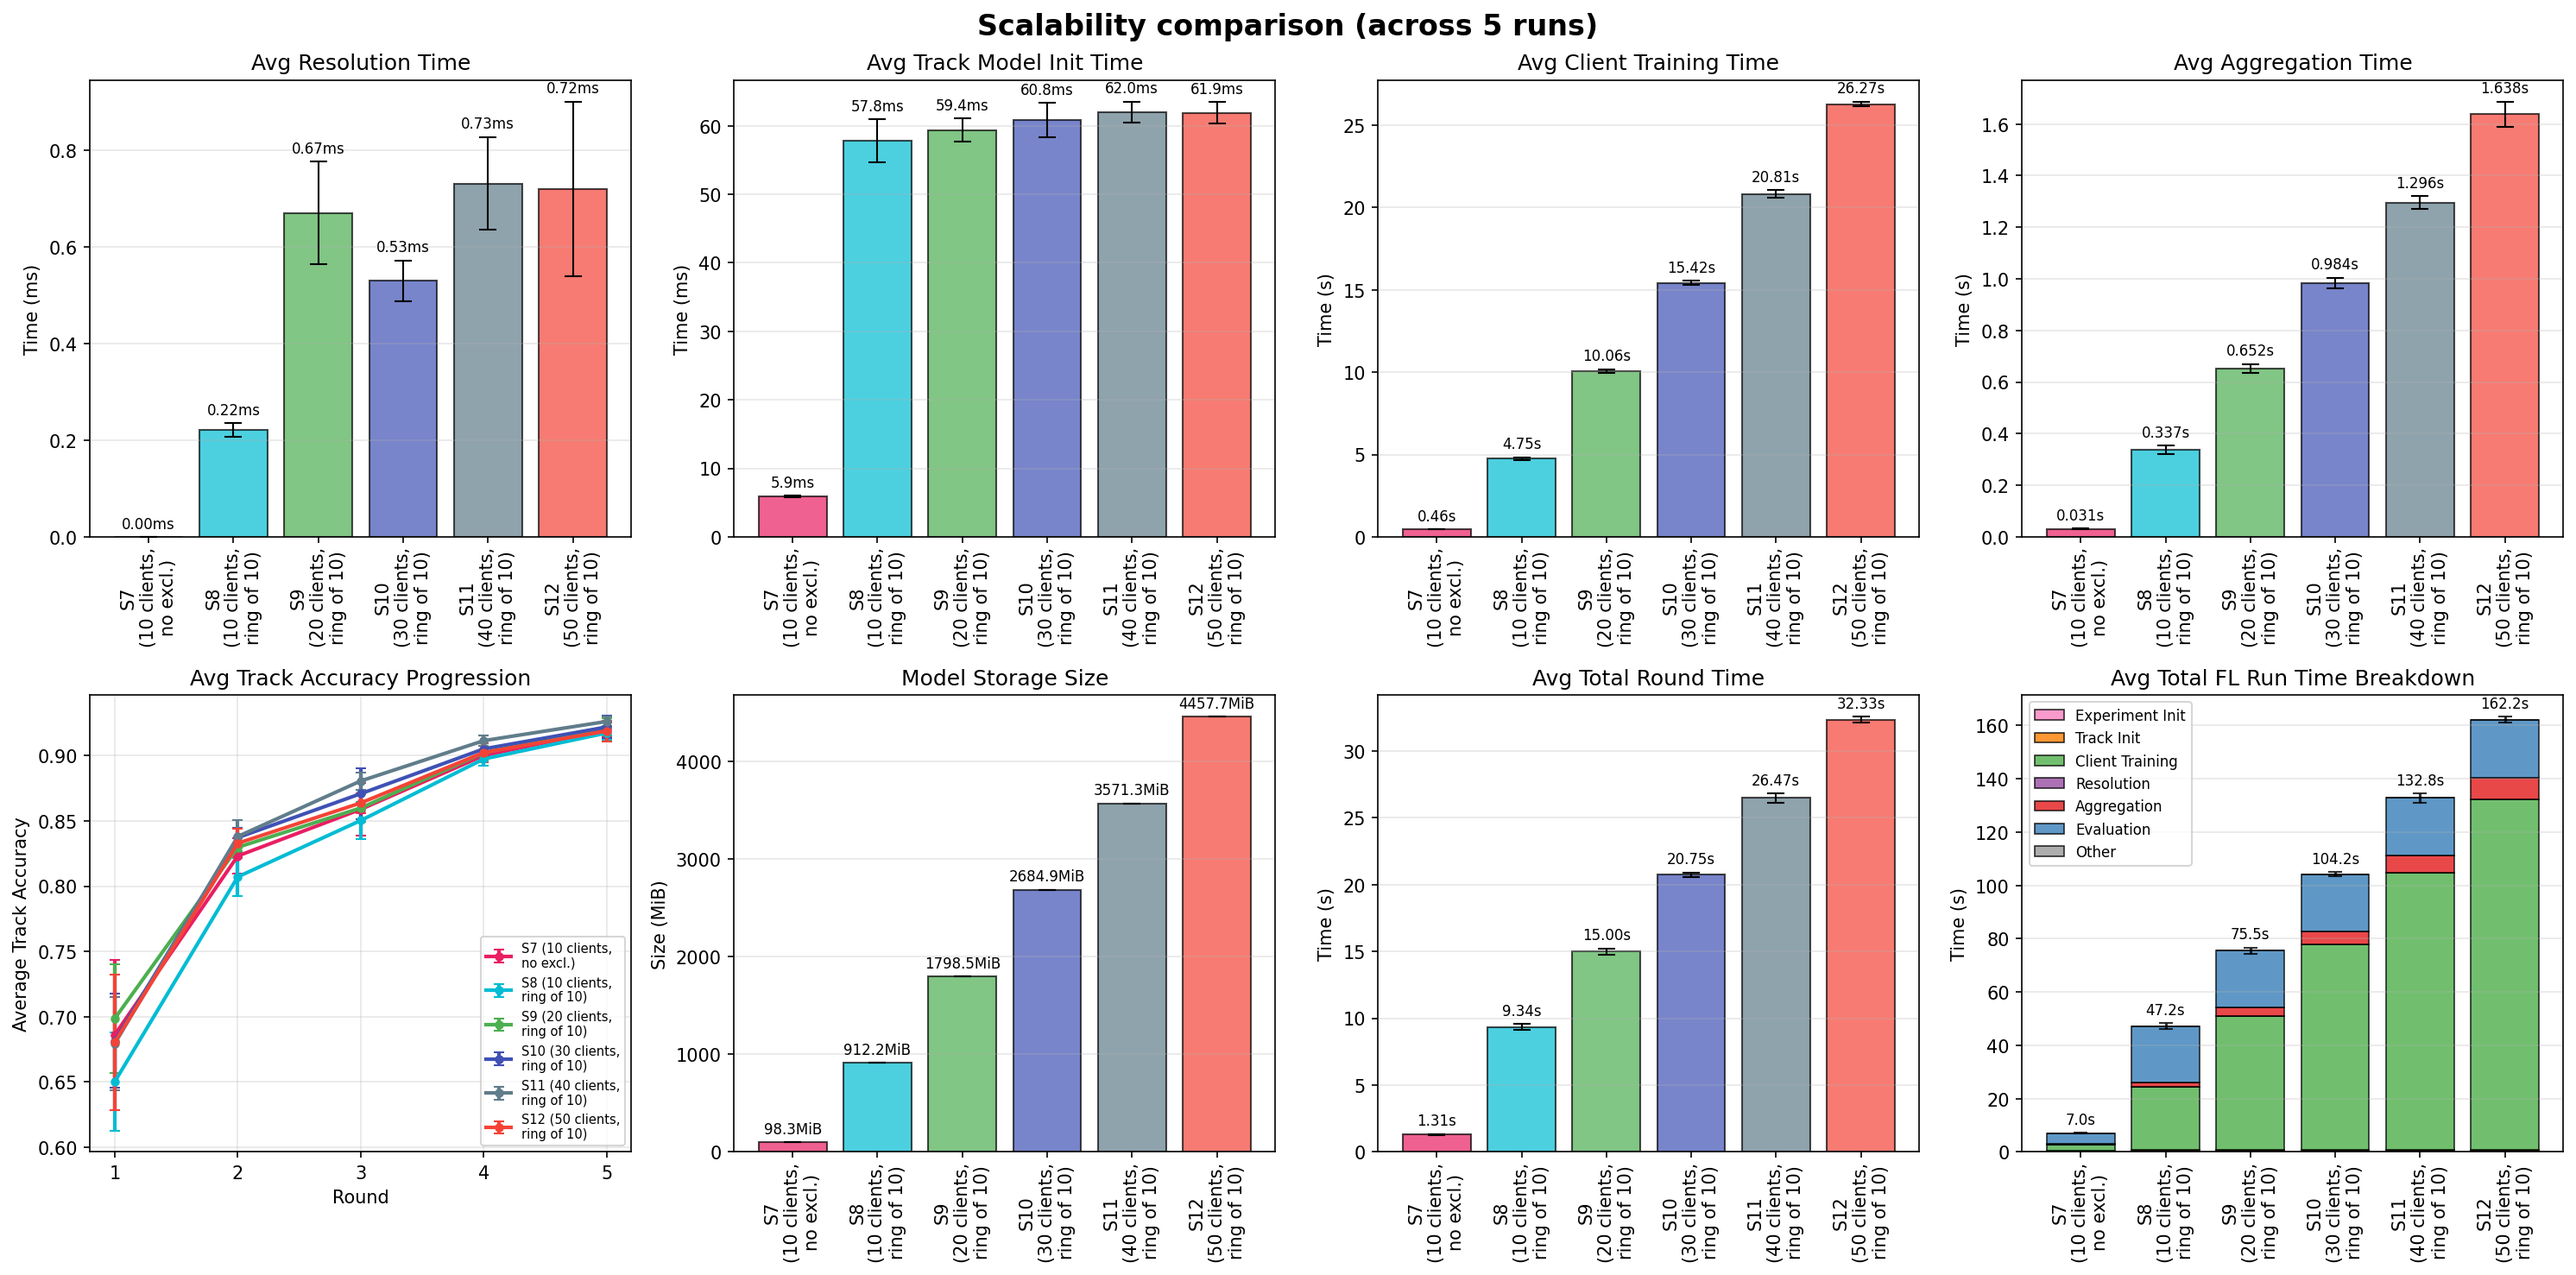
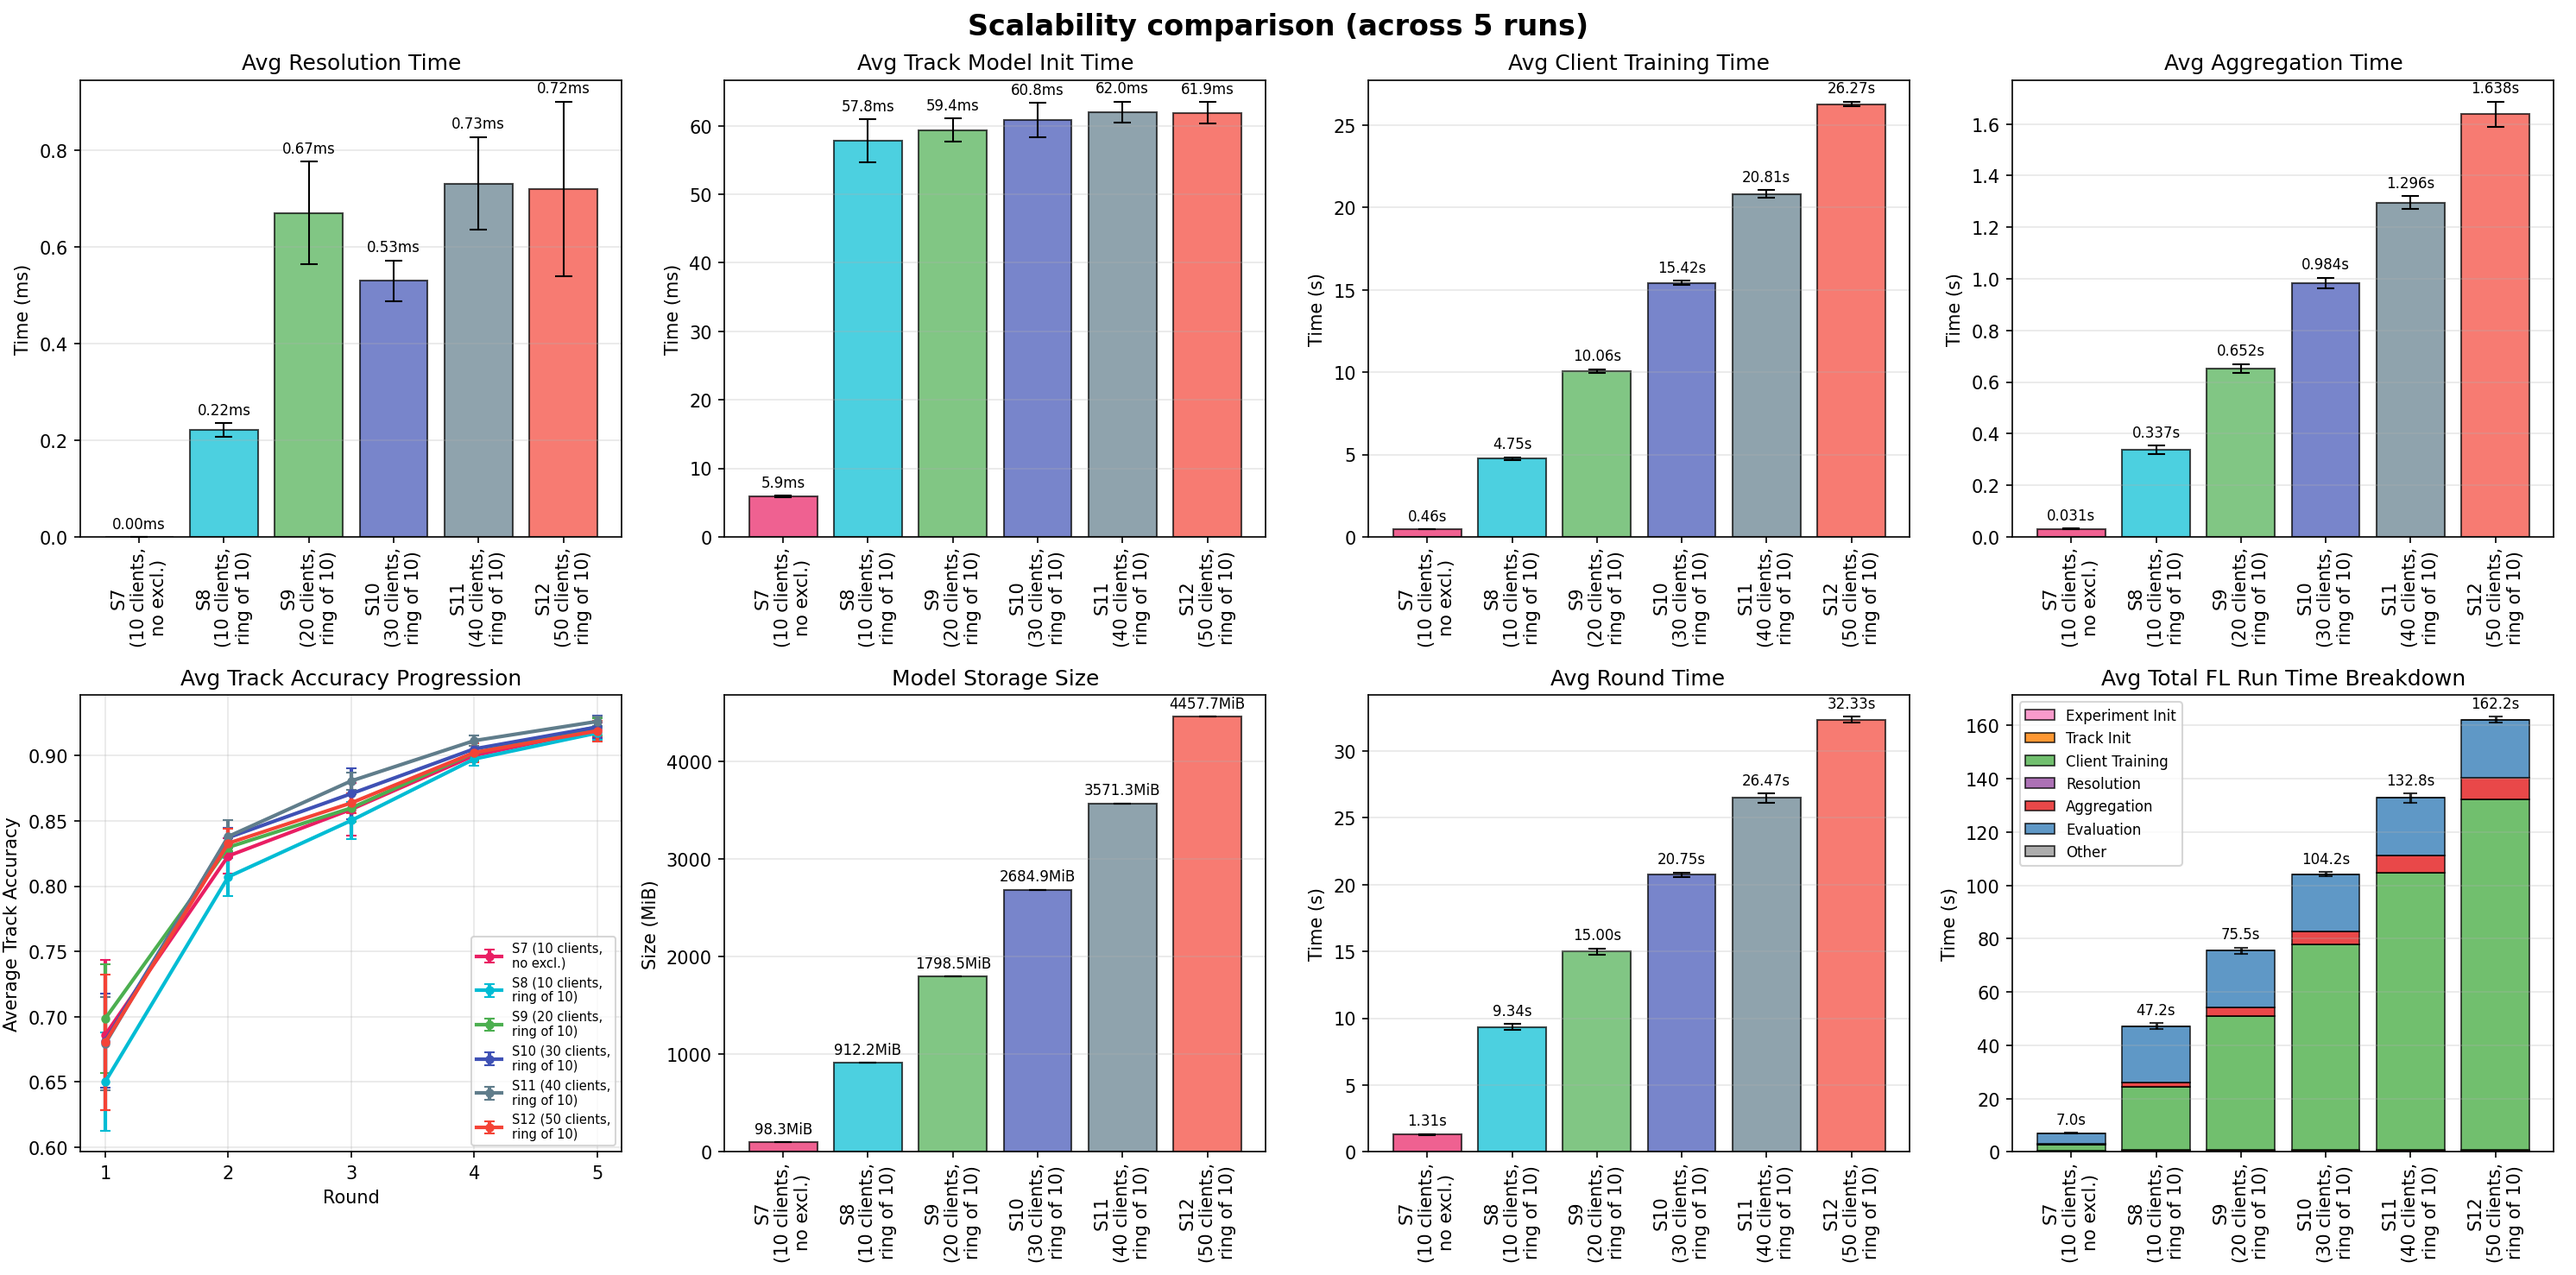
update collected outputs

diff --git a/scripts/compare_fl_runs.py b/scripts/compare_fl_runs.py
@@ -821,7 +821,7 @@ class FLRunComparator:
             ax.set_xticklabels(labels, rotation=90, ha='center', va='top')
             ax.tick_params(axis='x', pad=2)
             ax.set_ylabel('Time (s)')
-            ax.set_title('Avg Total Round Time')
+            ax.set_title('Avg Round Time')
             ax.grid(True, axis='y', alpha=0.3)
             # Add value labels (above error bars)
             for bar, value, error in zip(bars, values, errors):
